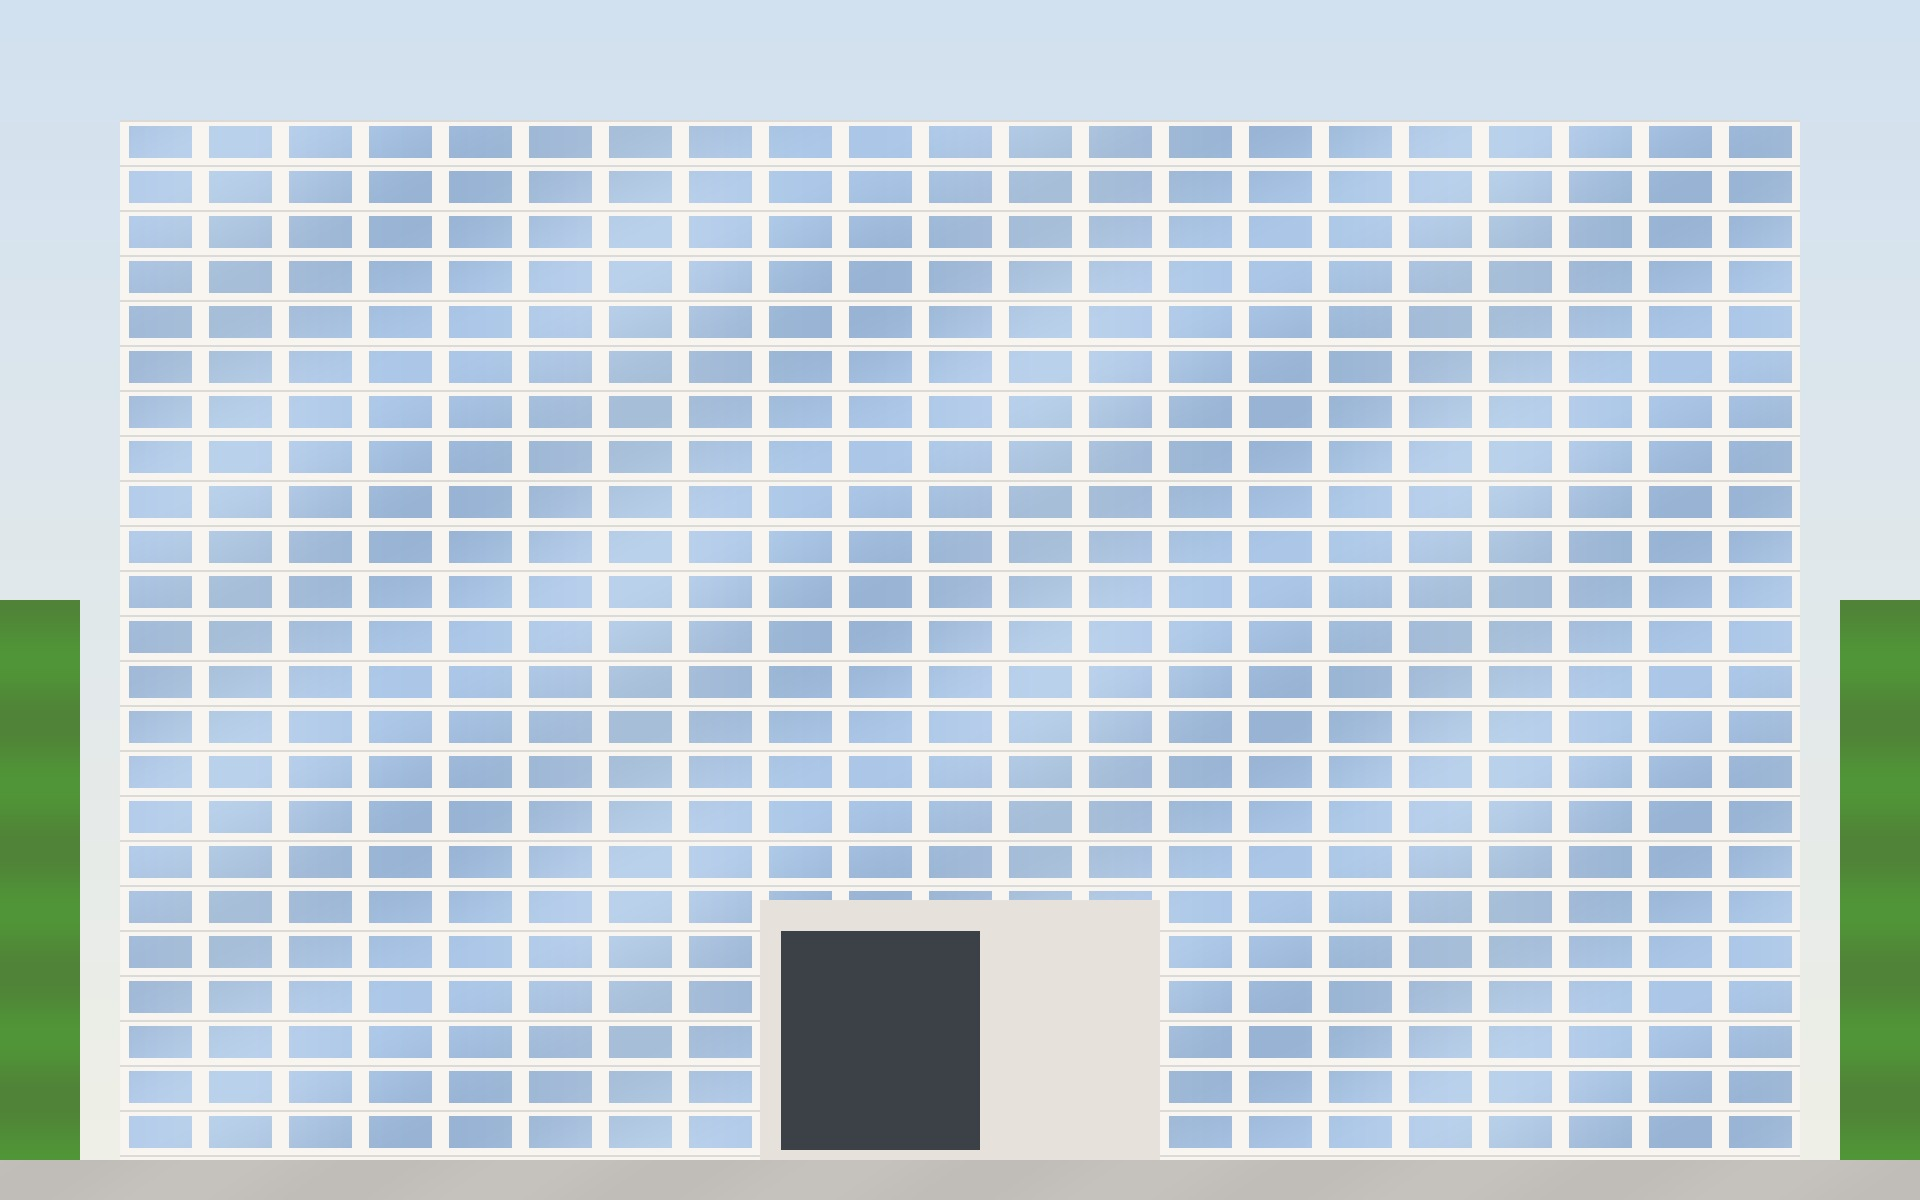
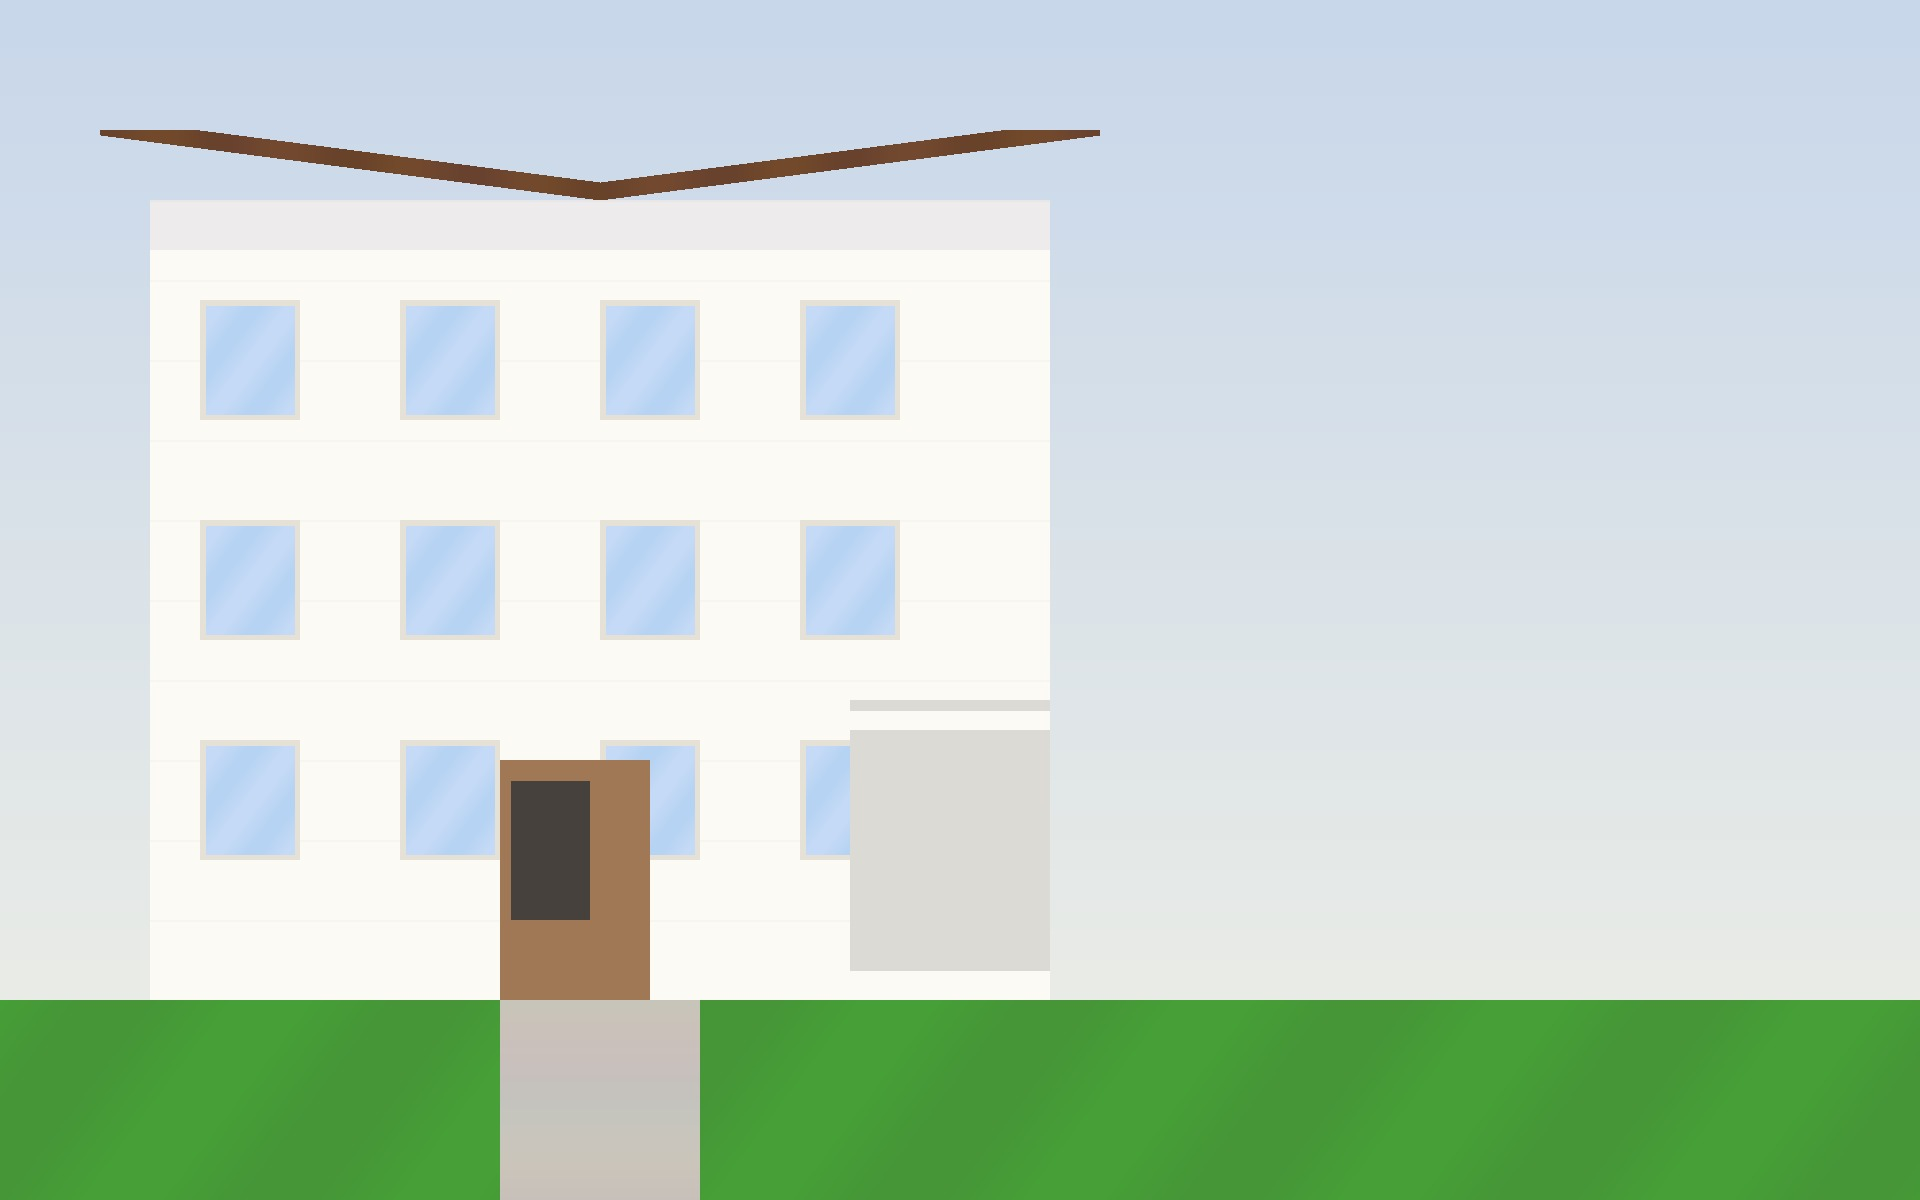
House background with dark overlay, clean layout

diff --git a/public/css/style.css b/public/css/style.css
@@ -1,7 +1,7 @@
 *,*::before,*::after{margin:0;padding:0;box-sizing:border-box}
-html{scroll-behavior:smooth;background:#f5f5f5}
+html{scroll-behavior:smooth}
 body{font-family:'Inter',sans-serif;color:#111;line-height:1.5;-webkit-font-smoothing:antialiased;background:url('/images/house.jpg') center/cover no-repeat;background-attachment:fixed;min-height:100vh}
-body::before{content:'';position:fixed;inset:0;background:rgba(255,255,255,.55);pointer-events:none;z-index:0}
+body::before{content:'';position:fixed;inset:0;background:rgba(0,0,0,.45);pointer-events:none;z-index:0}
 .container{max-width:1120px;margin:0 auto;padding:0 24px}
 main{position:relative;z-index:1}
 

diff --git a/server.js b/server.js
@@ -55,7 +55,7 @@ app.post('/api/contact', contactLimiter, (req, res) => {
   res.json({ success: true, message: 'Заявка принята! Мы свяжемся с вами в ближайшее время.' });
 });
 
-app.get('*', (req, res) => {
+app.get('/{*splat}', (req, res) => {
   res.sendFile(path.join(__dirname, 'public', 'index.html'));
 });
 